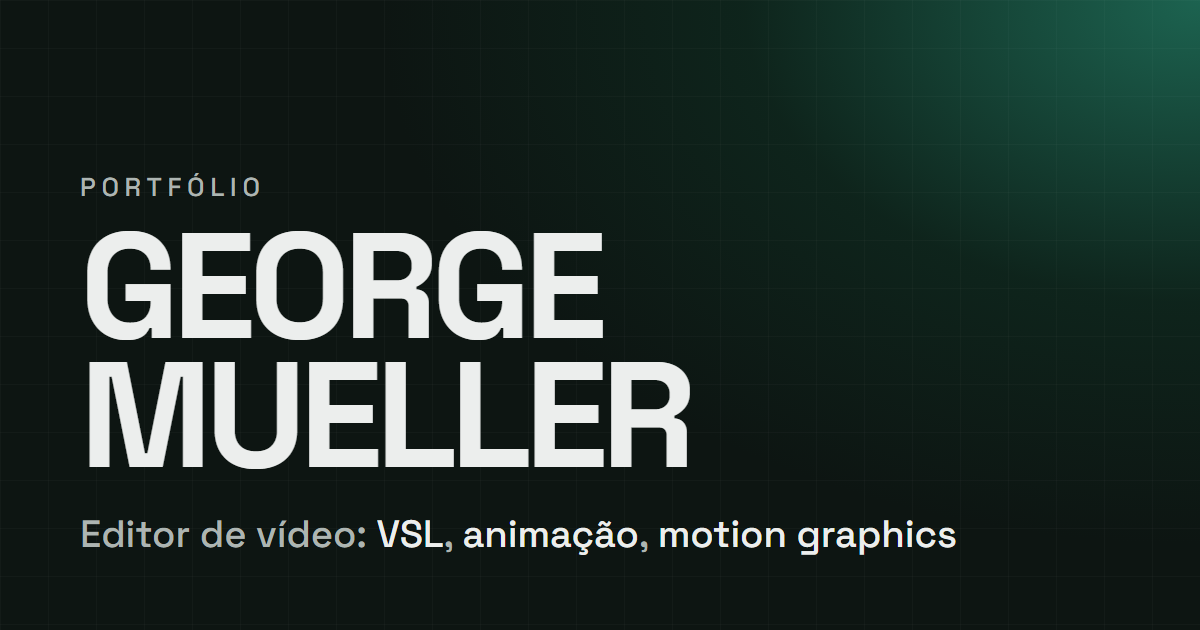
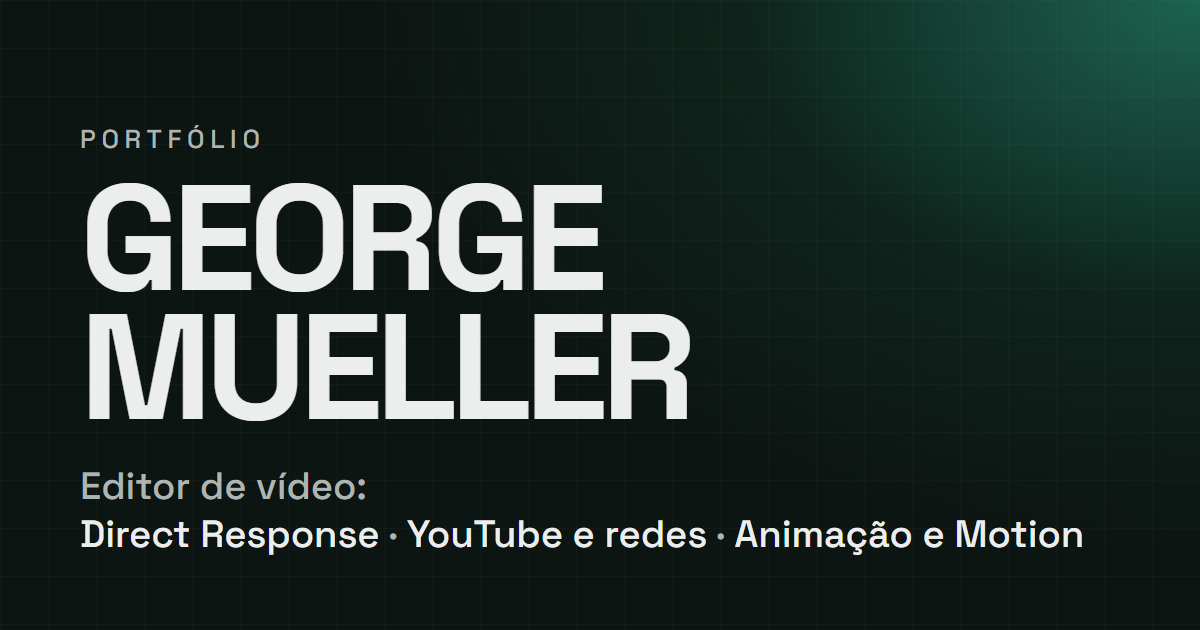
[PC] Título da aba e imagem de compartilhamento com as especialidades; rótulo "Canais dark"
- <title> da home e da trabalhos: Direct Response, YouTube e redes, Animação e Motion
- assets/og.png regenerado pelo ferramentas/og.html (mesmo visual, texto novo)
- nicho canal: rótulo "Canais dark" (VSL, YouTube e Gameplay mantidos)

Changed region(s): [[0.0617, 0.2714, 0.925, 0.8746], [0.0617, 0.181, 0.2158, 0.2413]]

diff --git a/ferramentas/og.html b/ferramentas/og.html
@@ -18,6 +18,7 @@
   h1 { position: relative; z-index: 1; margin: 0; font-size: 150px; line-height: .86; letter-spacing: -.045em; text-transform: uppercase; font-weight: 700; }
   p { position: relative; z-index: 1; margin: 30px 0 0; font-size: 38px; color: #adb5b2; }
   p b { color: #eceeed; font-weight: 500; }
+  p .grupos { white-space: nowrap; }
   .icone { display: none; }
   body.ic { width: 180px; height: 180px; }
   body.ic .og { display: none; }
@@ -29,7 +30,7 @@
   <div class="og">
     <div class="tag">Portfólio</div>
     <h1>George<br>Mueller</h1>
-    <p>Editor de vídeo: <b>VSL</b>, <b>animação</b>, <b>motion graphics</b></p>
+    <p>Editor de vídeo:<br><span class="grupos"><b>Direct Response</b> · <b>YouTube e redes</b> · <b>Animação e Motion</b></span></p>
   </div>
   <div class="icone">GM<span>.</span></div>
   <script>if (location.search.includes("icone")) document.body.classList.add("ic");</script>

diff --git a/index.html b/index.html
@@ -3,7 +3,7 @@
 <head>
   <meta charset="utf-8">
   <meta name="viewport" content="width=device-width, initial-scale=1">
-  <title>George Mueller — Editor de vídeo: VSL, animação e motion graphics</title>
+  <title>George Mueller — Editor de vídeo: Direct Response, YouTube e redes, Animação e Motion</title>
   <meta name="description" content="Portfólio de George Mueller, editor de vídeo de direct response (VSL, microlead e anúncios), YouTube e redes, animação e motion. Veja os trabalhos e fale comigo pelo WhatsApp.">
   <meta name="theme-color" content="#0d1512">
   <link rel="canonical" href="https://george-mueller.github.io/">
@@ -179,7 +179,7 @@
   </svg>
 
   <script src="js/fundos.js?v=3383704c" defer></script>
-  <script src="js/app.js?v=03b7beb3" defer></script>
+  <script src="js/app.js?v=d873e8a1" defer></script>
   <script src="js/apresentacao.js?v=0900c90e" defer></script>
 </body>
 </html>

diff --git a/trabalhos.html b/trabalhos.html
@@ -3,7 +3,7 @@
 <head>
   <meta charset="utf-8">
   <meta name="viewport" content="width=device-width, initial-scale=1">
-  <title>Trabalhos — George Mueller, editor de vídeo</title>
+  <title>Trabalhos — George Mueller, editor de vídeo: Direct Response, YouTube e redes, Animação e Motion</title>
   <meta name="description" content="Todos os trabalhos de George Mueller, editor de vídeo: direct response, YouTube e redes, animação e motion.">
   <meta name="theme-color" content="#0d1512">
   <link rel="canonical" href="https://george-mueller.github.io/trabalhos.html">
@@ -95,6 +95,6 @@
   </svg>
 
   <script src="js/fundos.js?v=3383704c" defer></script>
-  <script src="js/app.js?v=03b7beb3" defer></script>
+  <script src="js/app.js?v=d873e8a1" defer></script>
 </body>
 </html>

diff --git a/js/app.js b/js/app.js
@@ -4,7 +4,7 @@
   // ordem dos nichos na home e na página de trabalhos
   const NICHOS = [
     ["vsl", "VSL"],
-    ["canal", "Canal · Animação"],
+    ["canal", "Canais dark"],
     ["motion", "Motion graphics"],
     ["youtube", "YouTube"],
     ["gameplay", "Gameplay"],
